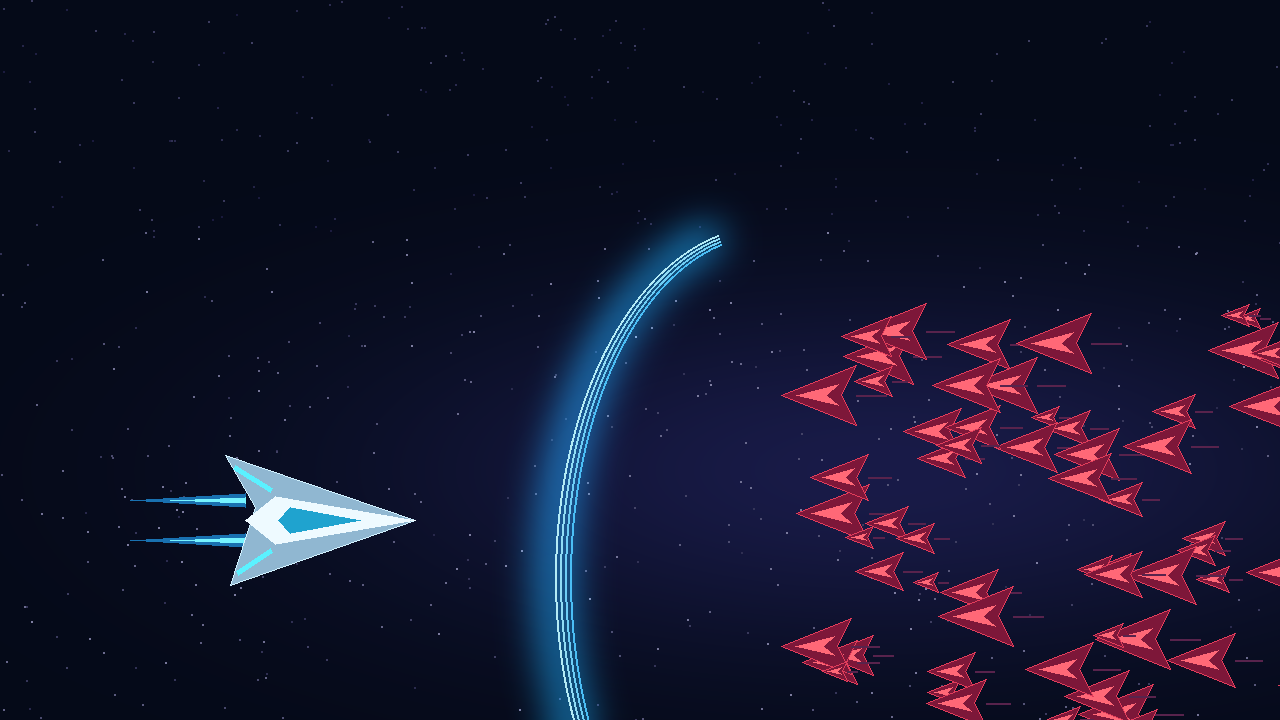
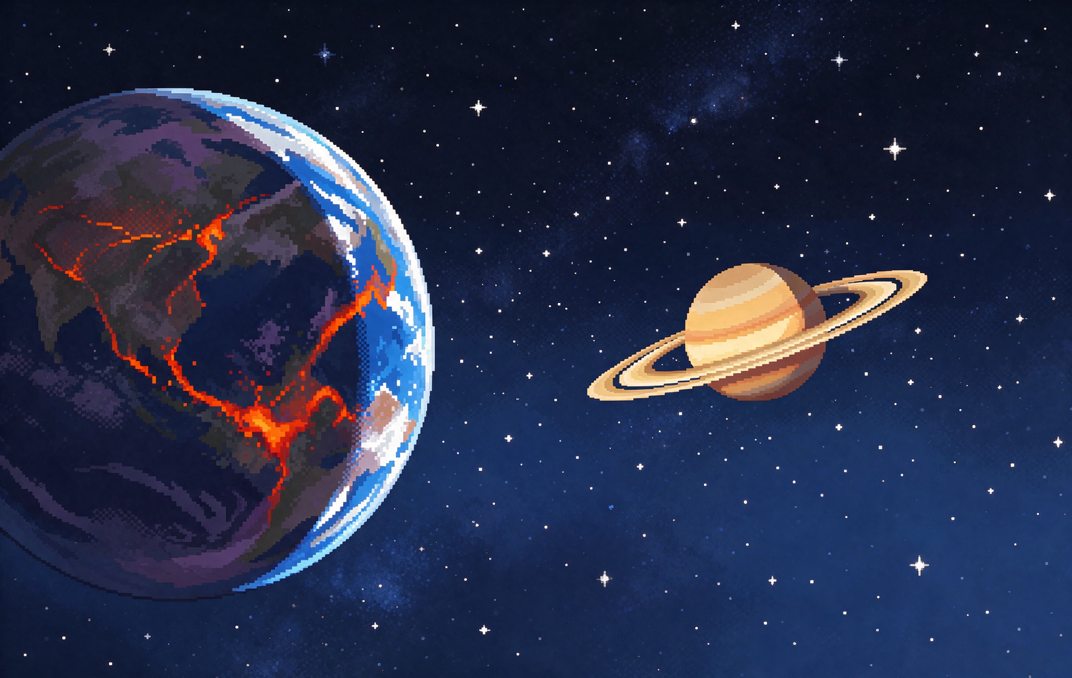
M8: Drone hinzugefügt

diff --git a/entities.py b/entities.py
@@ -28,6 +28,7 @@ class Spieler:
         self.schuss_pause = SCHUSS_PAUSE
         self.schuss_anzahl = settings.MEHRFACHSCHUSS_START
         self.magnetradius = settings.KRISTALL_MAGNETRADIUS
+        self.drohne = None
         self.upgrades_offen = 0
         self.level = 1
         self.erfahrung = 0
@@ -84,6 +85,10 @@ class Spieler:
         )
 
     def upgrade_verfuegbar(self, upgrade):
+        if upgrade["id"] == "drohne":
+            return self.drohne is None
+        if upgrade["id"] == "drohne_schaden":
+            return self.drohne is not None
         if upgrade["id"] == "mehrfach":
             return self.schuss_anzahl < upgrade["maximum"]
         if upgrade["id"] == "leben":
@@ -94,7 +99,11 @@ class Spieler:
         if not self.upgrade_verfuegbar(upgrade):
             return False
         art, wert = upgrade["id"], upgrade["wert"]
-        if art == "schaden":
+        if art == "drohne":
+            self.drohne = Drohne(self.position)
+        elif art == "drohne_schaden":
+            self.drohne.schaden += wert
+        elif art == "schaden":
             self.schaden += wert
         elif art == "feuerrate":
             self.schuss_pause *= wert
@@ -406,3 +415,40 @@ class Boss(Gegner):
         self.hilfe_offen = False
         return [Gegner("jaeger", settings.FENSTERGROESSE)
                 for _ in range(settings.BOSS_HILFE_ANZAHL)]
+
+
+class Drohne:
+    """Umläuft den Spieler und zielt vom eigenen Mittelpunkt auf den nächsten Gegner."""
+
+    def __init__(self, spielerposition):
+        self.radius = settings.DROHNE_RADIUS
+        self.schaden = settings.DROHNE_STARTSCHADEN
+        self.orbitwinkel = settings.DROHNE_STARTWINKEL
+        self.schuss_wartezeit = 0.0
+        self.position = pygame.Vector2(spielerposition) + pygame.Vector2(
+            settings.DROHNE_ORBITRADIUS, 0).rotate(self.orbitwinkel)
+        self.originalbild = assets.bild("drohne", self.radius * 2, settings.DROHNE_FARBE)
+        self.bild = self.originalbild
+
+    def aktualisieren(self, delta_time, spielerposition, gegner):
+        self.orbitwinkel = (self.orbitwinkel + settings.DROHNE_WINKELTEMPO * delta_time) % 360
+        self.position = pygame.Vector2(spielerposition) + pygame.Vector2(
+            settings.DROHNE_ORBITRADIUS, 0).rotate(self.orbitwinkel)
+        self.schuss_wartezeit = max(0.0, self.schuss_wartezeit - delta_time)
+        lebende = [feind for feind in gegner if feind.leben > 0]
+        if not lebende:
+            return []
+        ziel = min(lebende, key=lambda feind: self.position.distance_squared_to(feind.position))
+        richtung = ziel.position - self.position
+        if richtung.length_squared() == 0:
+            return []
+        winkel = math.degrees(math.atan2(-richtung.x, -richtung.y))
+        self.bild = pygame.transform.rotate(self.originalbild, winkel)
+        if self.schuss_wartezeit > 0:
+            return []
+        self.schuss_wartezeit = settings.DROHNE_SCHUSS_PAUSE
+        return [Schuss(self.position, richtung, self.schaden)]
+
+    def zeichnen(self, fenster):
+        fenster.blit(self.bild, self.bild.get_rect(
+            center=(round(self.position.x), round(self.position.y))))

diff --git a/main.py b/main.py
@@ -284,6 +284,10 @@ def main():
                 if pygame.mouse.get_pressed()[0]:
                     schuesse.extend(spieler.feuern(mausposition))
 
+                if spieler.drohne is not None:
+                    schuesse.extend(spieler.drohne.aktualisieren(
+                        delta_time, spieler.position, gegner))
+
                 besiegte_gegner += kollisionen_pruefen(spieler, schuesse, gegner, gegnerschuesse, kristalle, partikel)
                 if spieler.leben > 0:
                     kristalle[:] = [kristall for kristall in kristalle
@@ -328,6 +332,8 @@ def main():
                 schuss.zeichnen(welt)
             partikel.zeichnen(welt)
             spieler.zeichnen(welt)
+            if spieler.drohne is not None:
+                spieler.drohne.zeichnen(welt)
             fenster.fill(settings.DUNKELBLAU)
             fenster.blit(welt, versatz)
             anzeigen.spielstand(fenster, spieler.leben, wellen.nummer, besiegte_gegner)

diff --git a/settings.py b/settings.py
@@ -246,3 +246,16 @@ GEGNER_WAFFEN["circle"] = {
     "winkel": tuple(i * 360 / CIRCLE_RING_ANZAHL for i in range(CIRCLE_RING_ANZAHL)),
     "bildname": "schuss_circle", "farbe": CIRCLE_FARBE,
 }
+
+# Begleitdrohne: unabhängig von den Waffen-Upgrades des Spielers.
+DROHNE_RADIUS = 6
+DROHNE_FARBE = (90, 255, 220)
+DROHNE_ORBITRADIUS = 58.0
+DROHNE_WINKELTEMPO = 100.0  # Grad pro Sekunde
+DROHNE_STARTWINKEL = -90.0
+DROHNE_SCHUSS_PAUSE = 0.8
+DROHNE_STARTSCHADEN = 1
+UPGRADES.extend([
+    {"id": "drohne", "name": "Begleitdrohne", "wirkung": "Feuert automatisch auf Gegner", "icon": "icon_drohne", "wert": 1},
+    {"id": "drohne_schaden", "name": "Drohnen-Schaden", "wirkung": "+1 Schaden pro Drohnenschuss", "icon": "icon_drohne_upgrade", "wert": 1},
+])
